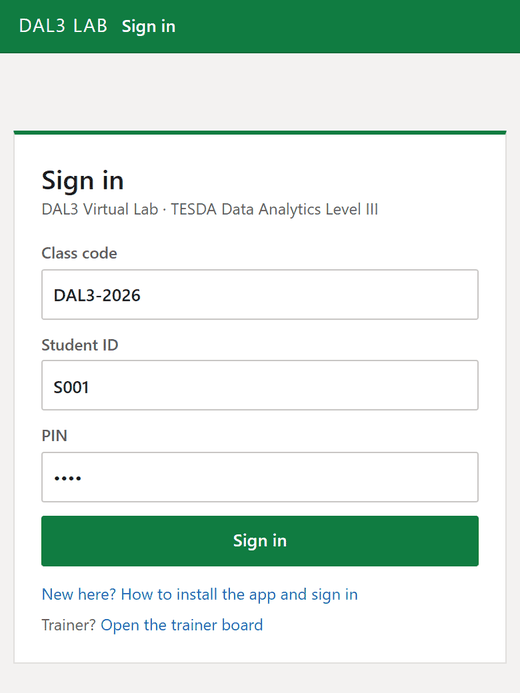
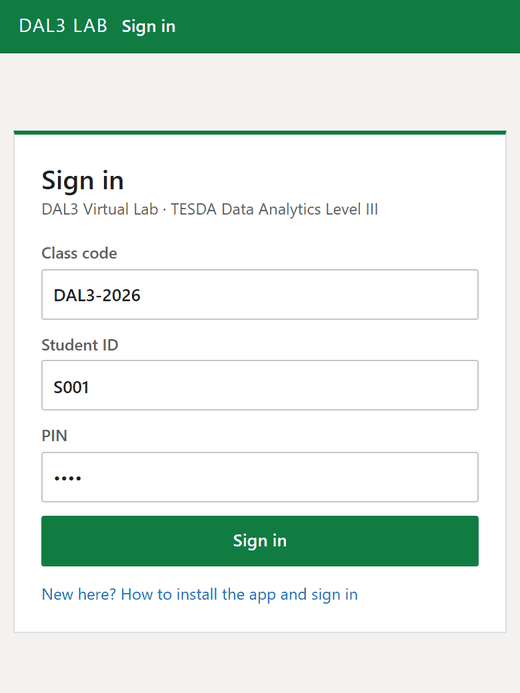
Trainer Log out button; remove trainer links from student screens
Visible Log out on the board (also in the gear menu) clears the key and
stops auto-refresh. Key screen says where to find the key. Students no
longer see a Trainer board button or link; guide sign-in picture
retaken. Offline cache v10.

Changed region(s): [[0.0615, 0.8788, 0.5231, 0.9091]]

diff --git a/js/app.js b/js/app.js
@@ -94,7 +94,6 @@ function accountMenu() {
   const box = el("div", { class: "form" },
     el("p", {}, el("b", {}, s.name || s.id), el("span", { class: "muted" }, `  ${s.id}${s.section ? " · " + s.section : ""}`)),
     el("div", { class: "actions" },
-    el("button", { class: "btn", type: "button", onclick: () => { m.close(); location.hash = "#/trainer"; } }, "Trainer board"),
     el("button", { class: "btn wide danger", type: "button", onclick: () => {
       if (queue.list().length && !confirm("Some work is still waiting to be sent. Sign out anyway? It will be sent after you sign in again on this phone.")) return;
       session.clear(); m.close(); location.hash = "#/login";
@@ -114,8 +113,7 @@ async function viewLogin() {
       <label>Student ID <input name="sid" required autocapitalize="characters" autocomplete="username"></label>
       <label>PIN <input name="pin" required inputmode="numeric" type="password" autocomplete="current-password" maxlength="8"></label>`}
     <button class="btn primary wide" type="submit">Sign in</button>
-    <p class="small" style="margin:12px 0 0"><a href="guide.html">New here? How to install the app and sign in</a></p>
-    <p class="small muted" style="margin:6px 0 0">Trainer? <a href="#/trainer">Open the trainer board</a></p>`;
+    <p class="small" style="margin:12px 0 0"><a href="guide.html">New here? How to install the app and sign in</a></p>`;
   shell("Sign in", null, f);
   if (!demoMode()) call("ping", {}, { quiet: true, auth: false }).catch(() => {});      // wake the Apps Script server while they type
   loadScript("vendor/hyperformula.full.min.js").catch(() => {});                       // and fetch the engine in the background
@@ -603,7 +601,10 @@ async function viewTrainer() {
   const linksBtn = el("button", { class: "btn small", type: "button", title: "Google Classroom assignment link for each activity" }, "Classroom links");
   const exportBtn = el("button", { class: "btn small", type: "button" }, icon("download"), "Export CSV");
   const settings = el("button", { class: "btn small icon", type: "button", title: "Board settings", "aria-label": "Board settings" }, icon("gear"));
-  shell("Trainer board", "#/", el("div", { class: "boardbar" }, daySel, live, el("div", { class: "grow" }), linksBtn, exportBtn, settings), toggles, table, legend, { __cls: "page work" });
+  const logout = el("button", { class: "btn small", type: "button", title: "Log out of the trainer board on this browser" }, icon("logout"), "Log out");
+  logout.addEventListener("click", trainerLogout);
+  shell("Trainer board", "#/", el("div", { class: "boardbar" }, daySel, live, el("div", { class: "grow" }), linksBtn, exportBtn, settings, logout),
+    toggles, table, legend, { __cls: "page work" });
   let data = null;
   settings.addEventListener("click", trainerSettings);
   daySel.addEventListener("change", () => { store.set("dal3_board_day", daySel.value); render(); });
@@ -655,7 +656,7 @@ async function viewTrainer() {
     } catch (e) {
       live.textContent = e.message;
       live.className = "livedot off";
-      if (/trainer key/i.test(e.message)) { trainer.clear(); trainerLogin(); }
+      if (/trainer key/i.test(e.message)) { trainer.clear(); toast("The trainer key was not accepted. Please enter it again.", "bad"); route(); }
     } finally {
       refreshing = false;
     }
@@ -748,9 +749,16 @@ async function viewTrainer() {
 }
 const indexBy = (arr, f) => Object.fromEntries(arr.map((x) => [f(x), x]));
 
+/** Forget the trainer key on this browser and show the key screen again (stops the board's auto-refresh). */
+function trainerLogout() {
+  trainer.clear();
+  toast("Logged out of the trainer board on this browser.", "good");
+  if (location.hash === "#/trainer") route(); else location.hash = "#/trainer";
+}
+
 function trainerLogin() {
   const f = el("form", { class: "form signin" });
-  f.innerHTML = `<h2>Trainer board</h2><p class="sub">Enter the trainer key from the Apps Script log.</p>
+  f.innerHTML = `<h2>Trainer board</h2><p class="sub">Enter your trainer key. To see it: in your Google Sheet, open the <b>DAL3 Lab</b> menu › <b>Show class code and trainer key</b>.</p>
     ${demoMode() ? `<p class="note">No class server is configured yet. Follow SETUP.md, put the web app URL in js/config.js, or paste it below.</p>
       <label>Web app URL <input name="api" placeholder="https://script.google.com/macros/s/.../exec"></label>` : ""}
     <label>Trainer key <input name="key" type="password" required autocomplete="current-password"></label>
@@ -773,7 +781,7 @@ function trainerSettings() {
       if (u.trim()) store.set("dal3_api_override", u.trim()); else store.del("dal3_api_override");
       location.reload();
     } }, "Change server URL"),
-    el("button", { class: "btn wide danger", type: "button", onclick: () => { trainer.clear(); m.close(); location.hash = "#/"; } }, "Lock the trainer board"));
+    el("button", { class: "btn wide danger", type: "button", onclick: () => { m.close(); trainerLogout(); } }, "Log out of the trainer board"));
   const m = modal("Board settings", box);
 }
 

diff --git a/js/ui.js b/js/ui.js
@@ -42,6 +42,7 @@ const P = {
   download: '<path d="M8 2.5v8m-3-3 3 3 3-3M3 13.5h10"/>',
   gear: '<circle cx="8" cy="8" r="2"/><path d="M8 1.5v2M8 12.5v2M1.5 8h2M12.5 8h2M3.4 3.4l1.4 1.4M11.2 11.2l1.4 1.4M3.4 12.6l1.4-1.4M11.2 4.8l1.4-1.4"/>',
   chev: '<path d="m6 3 5 5-5 5"/>',
+  logout: '<path d="M6.5 2.5h-4v11h4M10 5l3 3-3 3M13 8H6"/>',
   quiz: '<rect x="2.5" y="2.5" width="11" height="11"/><path d="m5 6 1 1 2-2M5 10.5l1 1 2-2M9.5 6.5h2M9.5 11h2"/>',
 };
 export function icon(name, cls = "ic") {

diff --git a/sw.js b/sw.js
@@ -1,5 +1,5 @@
 // Offline support: cache the app shell and day data; the Apps Script API is never cached.
-const VERSION = "dal3-lab-v8";
+const VERSION = "dal3-lab-v10";
 const SHELL = [
   "./", "index.html", "manifest.webmanifest", "css/app.css",
   "js/app.js", "js/api.js", "js/config.js", "js/ui.js", "js/workbook.js", "js/grid.js", "js/stats.js",
